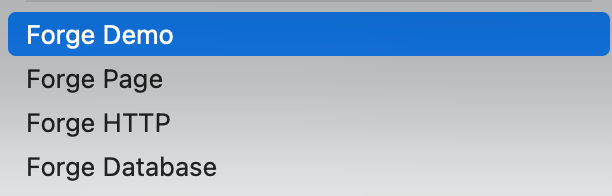
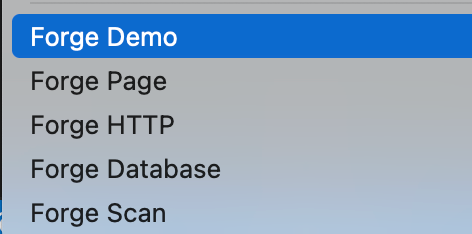
chore: edit README

diff --git a/README.md b/README.md
@@ -6,4 +6,28 @@ This is a VS Code extension used for automatically generating Flutter project co
 - Forge HTTP: Generate HTTP interface request template codes.
 - Forge Database: Generate codes for creating database connection.
 - Forge Page: Add a new page.
+- Forge Scan: Add QR code scanning feature to Flutter project
+
+## Usage
+1. Install the extension from the VS Code Marketplace.
+2. Right-click on a Flutter project folder in VS Code.
+3. Choose the desired function from the context menu.
+4. Follow the prompts to generate the desired code.
+
+![use](detail.png)
+
+## 项目介绍
+这是一款用于自动生成 Flutter 项目代码的扩展插件。
+## 功能特性
+- Forge Demo:：快速生成项目模板代码。
+- Forge HTTP：生成 HTTP 接口请求模板代码。
+- Forge Database：生成用于创建数据库连接的代码。
+- Forge Page：添加新页面。
+- Forge Scan: 添加二维码扫描功能到Flutter项目。
+
+## 使用方法
+1. 在 VS Code Marketplace 安装此扩展。
+2. 在 VS Code 中右键点击 Flutter 项目文件夹或文件夹。
+3. 选择所需功能并按提示生成所需代码。
+
 ![use](detail.png)
